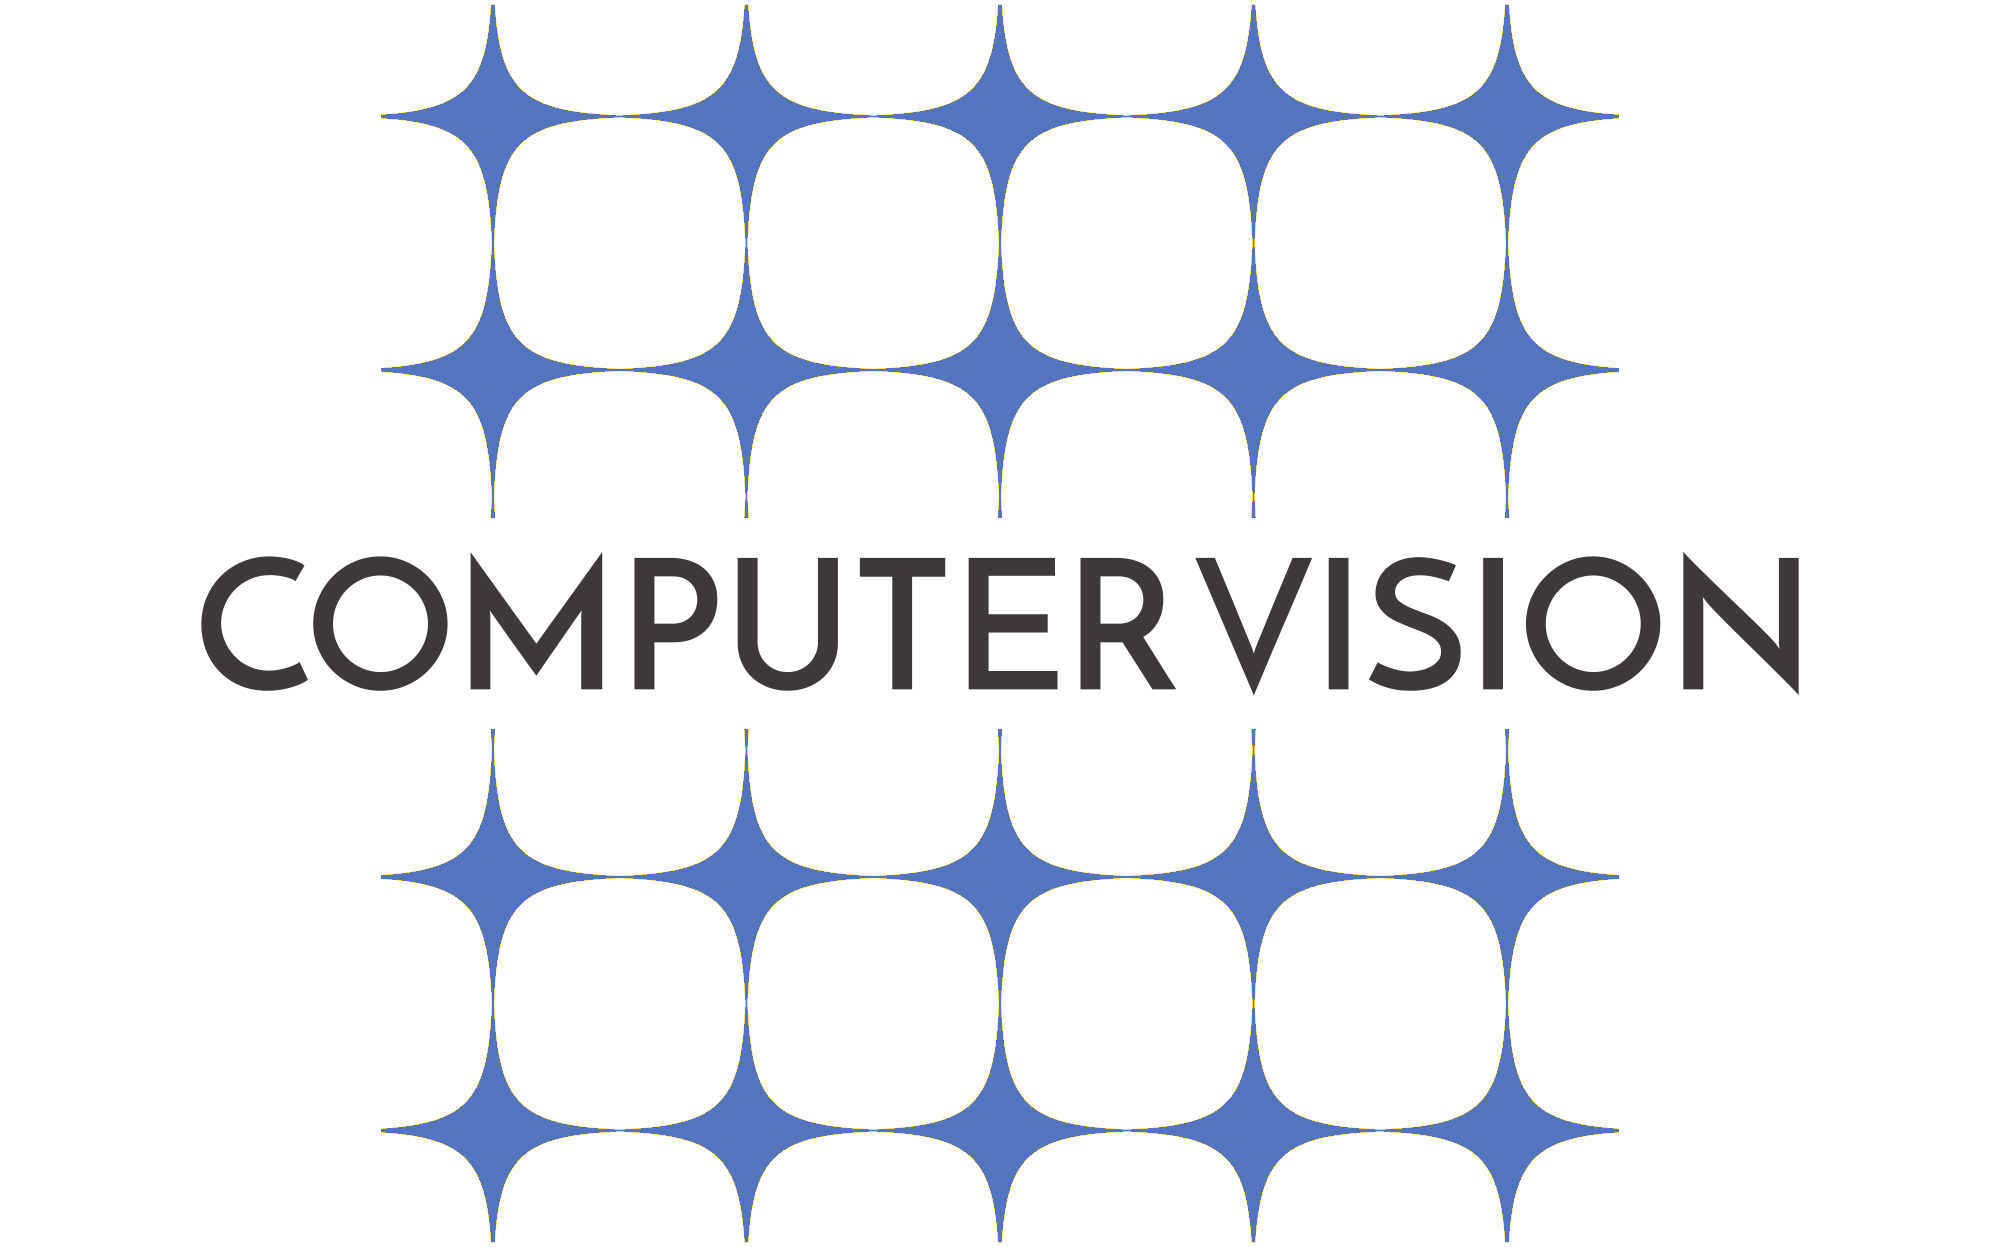
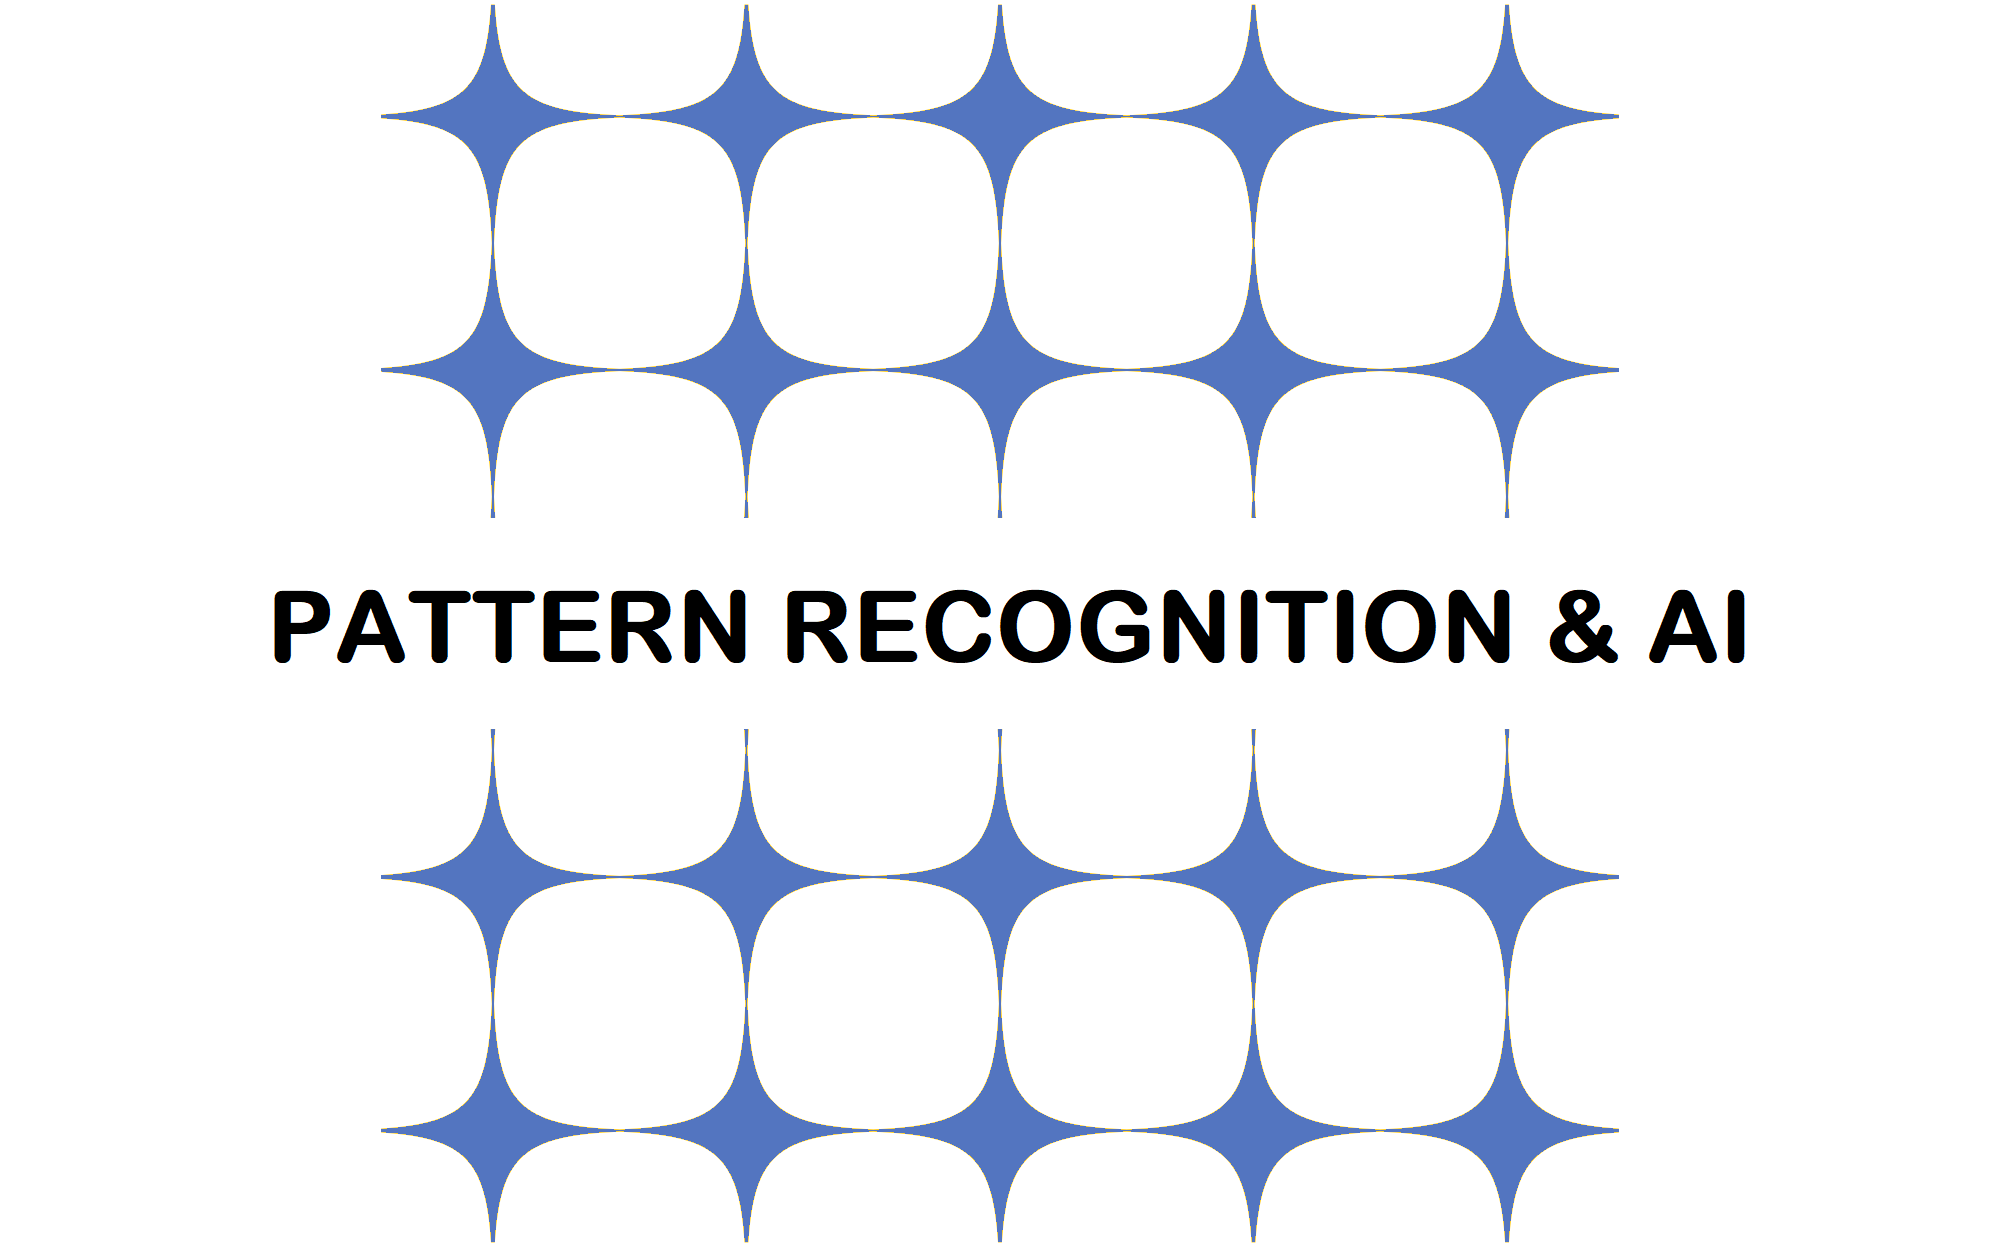
TOPICS

Changed region(s): [[0.093, 0.4266, 0.899, 0.579]]

diff --git a/Conference Main/index.html b/Conference Main/index.html
@@ -290,8 +290,8 @@ function moveCard() {
           <p style="justify"><t></t><strong>The conference will provide an ideal platform for presenting the developments and latest findings. The areas of interest include but are not confined to the following domains:</strong></p>
           <div class="tlist">
             <div class="list1">
-              <ul>
-                <!-- <li>
+              <!-- <ul>
+                <li>
                   <img src="ai.png" alt="" height="100px"><br>
                   <strong>Artificial intelligence and Applications</strong></li><br>
                 <li> -->
@@ -308,7 +308,7 @@ function moveCard() {
                   <img src="se (2).png" alt="" height="100px"><br>
                   <strong>Software Engineering and Project Management</strong></li><br>
                 <li> -->
-                  <img src="patternANDAI.png" alt="" height="150px"><br>
+                  <img src="cvpr.png" alt="" height="150px"><br>
                   <strong>Pattern Recognition & AI</strong></li><br>
                 <li><br>
                   <img src="applied.png" alt="" height="150px"><br>

diff --git a/Conference Main/topics.html b/Conference Main/topics.html
@@ -118,7 +118,7 @@
           </ul>
         </div> -->
         <div class="dc">
-          <img src="net.png" alt="" height="150px"><br>
+          <img src="communicaion (1).png" alt="" height="150px"><br>
           <h4>Communication & Data Security</h4>
           <ul>
             <li>Signal Processing & Communication</li>
@@ -129,7 +129,7 @@
         </div>
 
         <div class="sc">
-          <img src="sc.png" alt="" height="150px"><br>
+          <img src="applied.png" alt="" height="150px"><br>
           <h4>Applied Electronics</h4>
           <ul>
             <li>IoT</li>

diff --git a/Conference Main/a_committee.html b/Conference Main/a_committee.html
@@ -112,12 +112,12 @@
     <div class="cc">
       <div class="chief">
         <h3>Chief Patron</h3>
-        <img src="Omprakash Mishra.jpg" alt="">
+        <img src="plogo.png" alt="">
         <h5>Hon'ble Vice Chancellor<br> University of North Bengal</h5>
       </div>
       <div class="patron">
         <h3>Patron</h3>
-        <img src="dean_sci.jpg" alt="">
+        <img src="plogo.png" alt="">
         <h5>Dean (Faculty of Science)<br> University of North Bengal</h5>
       </div><br>
     </div>
